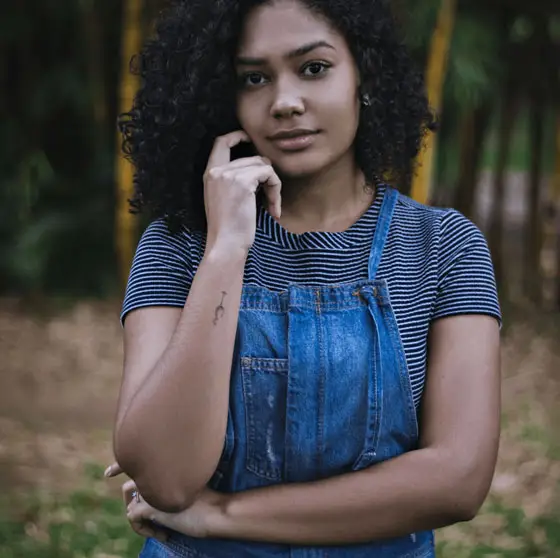
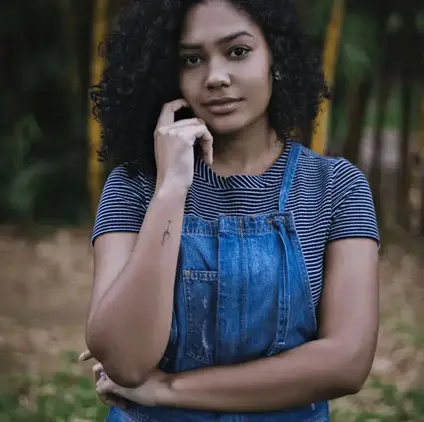
Correction des images, meilleures dimension, variation mobile et desktop

diff --git a/index.html b/index.html
@@ -140,7 +140,9 @@
         <div class="carousel-inner">
           <div class="carousel-item active">
             <img
-              src="./assets/images/slider/ryoji-iwata-wUZjnOv7t0g-unsplash.webp"
+            width="460px" height="100%" src="./assets/images/slider/ryoji-iwata-wUZjnOv7t0g-unsplash.webp"
+						srcset="./assets/images/slider/ryoji-iwata-wUZjnOv7t0g-unsplash-min.webp 1000w,
+				./assets/images/slider/ryoji-iwata-wUZjnOv7t0g-unsplash.webp 2000w"
               class="d-block w-100"
               alt="Homme d'affaires traversant un passage piéton avec une mallette"
             />
@@ -150,6 +152,7 @@
               src="./assets/images/slider/nicholas-green-nPz8akkUmDI-unsplash.webp"
               class="d-block w-100"
               alt="Concert animé avec une foule enthousiaste"
+              loading="lazy"
             />
           </div>
           <div class="carousel-item">
@@ -157,6 +160,7 @@
               src="./assets/images/slider/edward-cisneros-3_h6-1NPDGw-unsplash.webp"
               class="d-block w-100"
               alt="Les mariés s'embrassent devant des invités qui applaudissent"
+              loading="lazy"
             />
           </div>
         </div>
@@ -185,7 +189,6 @@
         <img
           src="./assets/images/nina.webp"
           alt="Femme aux cheveux noirs bouclés vêtue d'une salopette bleue"
-          width="560" height="558"
         />
       </div>
       <div id="about-me">
@@ -384,7 +387,7 @@
           <img
             src="./assets/images/camera.webp"
             alt="Un appareil photo au crépuscule"
-            width="419" height="418"
+            loading="lazy"
           />
         </div>
       </div>
